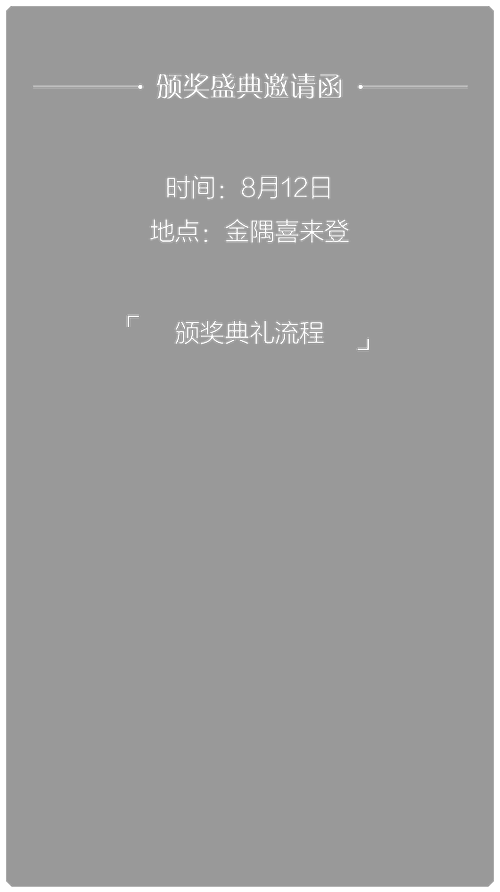
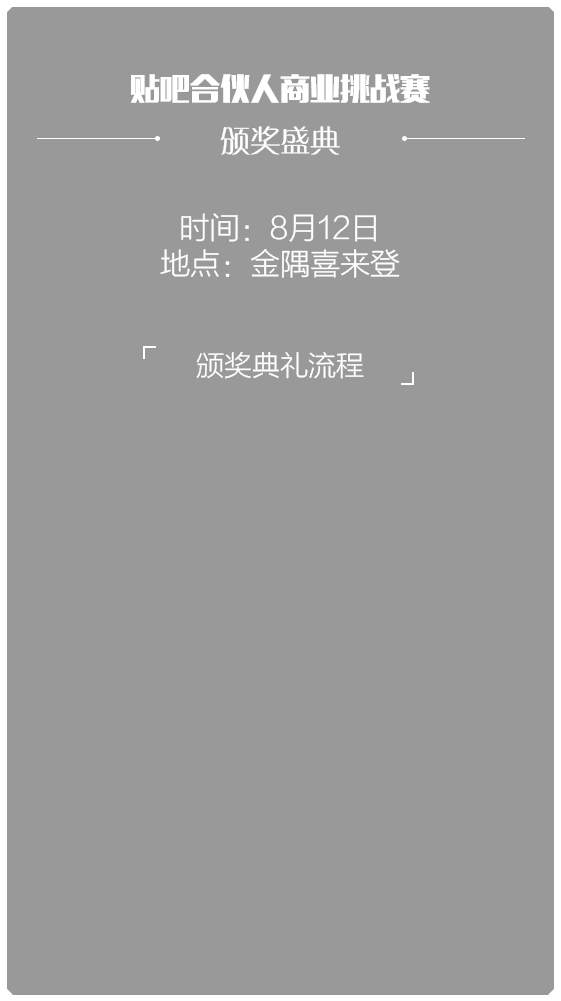
修改邀请函

diff --git a/templates/invitation2.html b/templates/invitation2.html
@@ -11,7 +11,7 @@
 	<link rel="stylesheet" type="text/css" href="/static/css/invitation/icon.css">
 	<link rel="stylesheet" type="text/css" href="/static/css/invitation/process.css?v=1.1">
 	<link rel="stylesheet" type="text/css" href="/static/css/weekly/time.css">
-	<link rel="stylesheet" type="text/css" href="/static/css/invitation/invitation2.css?v=1.5">
+	<link rel="stylesheet" type="text/css" href="/static/css/invitation/invitation2.css?v=1.6">
 </head>
 <body>
 	<!-- <img src="/static/css/invitation/cover/cover.png" style="height:0"> -->
@@ -33,7 +33,7 @@
 						<div class="square" style="top:50%;left:-4px;"></div>
 					</div>
 				</div>
-				<img class="cover-slide" src="/static/css/invitation/cover/slide.png">
+				<img class="cover-slide" src="/static/css/invitation/cover/slide2.png">
 				<div class="cover-text-wrapper">
 					<img src="/static/css/invitation/cover/text.png">
 				</div>
@@ -101,6 +101,9 @@
 			            	<img class="tutor-img" src="/static/css/invitation/content/tutor/2_4.png">
 			            </div>
 			        </div>
+			        <img class="tutor-prev-btn left-arrow" src="/static/css/invitation/content/left_arrow.png">
+			        <img class="tutor-next-btn right-arrow" src="/static/css/invitation/content/right_arrow.png">
+
 			    	<div class="swiper-pagination swiper-pagination-tutor"></div>
 			    </div>
 			    <img class="slide-arrow" src="/static/css/invitation/content/arrow.png">	        	
@@ -125,21 +128,23 @@
 			        </div>
 			        <div class="swiper-pagination swiper-pagination-team"></div>
 			    </div>
+			    <img class="team-prev-btn left-arrow" src="/static/css/invitation/content/left_arrow.png">
+			    <img class="team-next-btn right-arrow" src="/static/css/invitation/content/right_arrow.png">
 			    <img class="slide-arrow" src="/static/css/invitation/content/arrow.png">
 	        </div>
 	
 	        <!-- 不能亲临 -->
 	        <div class="swiper-slide m1" id="p7"> 
-	        	<img src="/static/css/invitation/content/contact/text.png" style="width: 62%;position: absolute;top: 100px;left: 50%;margin-left: -31%;">
-	        	<a href="http://tieba.baidu.com/f?kw=贴吧合伙人&fr=wwwt"><img style="width: 52%;position: absolute;bottom: 100px;left: 50%;margin-left: -26%;" src="/static/css/invitation/content/contact/btn.png"></a>
-	        	<img style="width: 66%;position: absolute; bottom: 50px;left: 50%;margin-left: -33%;" src="/static/css/invitation/content/contact/email.png">
+	        	<img src="/static/css/invitation/content/contact/text.png" style="width: 62%;position: absolute;top: 70px;left: 50%;margin-left: -31%;">
+	        	<a href="http://tieba.baidu.com/f?kw=贴吧合伙人&fr=wwwt"><img style="width: 52%;position: absolute;bottom: 150px;left: 50%;margin-left: -26%;" src="/static/css/invitation/content/contact/btn.png"></a>
+	        	<img style="width: 66%;position: absolute; bottom: 100px;left: 50%;margin-left: -33%;" src="/static/css/invitation/content/contact/email.png">
 	        </div>
 	    </div>
 	</div>
 	<script type="text/javascript" src="/static/js/jquery-1.10.2.min.js"></script>
 	<script type="text/javascript" src="/static/js/swiper.jquery.min.js"></script>
 	<script type="text/javascript" src="/static/js/touch.js"></script>	
-	<script type="text/javascript" src="/static/js/invitation/invitation.js?v=1.4"></script>
+	<script type="text/javascript" src="/static/js/invitation/invitation.js?v=1.5"></script>
 	<script type="text/javascript" src="http://res.wx.qq.com/open/js/jweixin-1.0.0.js"></script>
 	<script type="text/javascript">
 		wx.config({

diff --git a/static/js/anniversary/anniversary.js b/static/js/anniversary/anniversary.js
@@ -373,22 +373,32 @@ var shareText = '';
 $(".j-go-result").bind('click', function(){
 
 	if(moneyLevel == 0 && faceTotalLevel == 1 && authLevel == 1){
-		jQfinal.empty()
-		jQfinal.append('<p>你长得正点，又有权有势</p><p>武媚娘想请你喝茶</p>')
+		jQfinal.empty();
+		jQfinal.append('<p>我长得正点，又有权有势</p><p>武媚娘想请你喝茶</p>');
+		shareText = '你长得正点，又有权有势，武媚娘想请你喝茶'
+	}else if(moneyLevel == 1 && faceTotalLevel == 1 && authLevel == 1){
+		jQfinal.empty();
+		jQfinal.append('<p>你凭借超高的颜值</p><p>玩转金钱与权力游刃有余</p>');
+		shareText = '我凭借超高的颜值，玩转金钱与权力游刃有余';
 	}else if(moneyLevel == 0 && faceTotalLevel == 1 && authLevel == 0){
-		jQfinal.empty()
-		jQfinal.append('<p>恭喜你刷脸成功</p><p>成为新一代中老年过目难忘的偶像</p>')
+		jQfinal.empty();
+		jQfinal.append('<p>恭喜你刷脸成功</p><p>成为新一代中老年过目难忘的偶像</p>');
+		shareText = '我刷脸成功，成为新一代中老年过目难忘的偶像，转发给大家看看吧。';
 	}else if(moneyLevel == 0 && faceTotalLevel == 0 && authLevel == 1){
-		jQfinal.empty()
-		jQfinal.append('<p>你凭借天生的霸气</p><p>打破了这个世界看脸规则</p>')
+		jQfinal.empty();
+		jQfinal.append('<p>你凭借天生的霸气</p><p>打破了这个世界看脸规则</p>');
+		shareText = '我凭借天生的霸气，打破了这个世界看脸规则';
 	}else if(moneyLevel == 0 && faceTotalLevel == 0 && authLevel == 0){
-		jQfinal.empty()
+		jQfinal.empty();
+		shareText = '我属于天煞孤星和丧门星和扫把星三星合体，天赋秉异，所向无敌';
 		jQfinal.append('<p>你属于天煞孤星和丧门星和扫把星三星合体</p><p>天赋秉异，所向无敌</p>')
 	}else if(moneyLevel == 1 && faceTotalLevel == 0 && authLevel == 0){
-		jQfinal.empty()
+		jQfinal.empty();
+		shareText = '我天生财运旺盛，几乎完胜国民老公王思聪';
 		jQfinal.append('<p>你天生财运旺盛</p><p>几乎完胜国民老公王思聪</p>')
 	}else if(moneyLevel == 1 && faceTotalLevel == 0 && authLevel == 1){
-		jQfinal.empty()
+		jQfinal.empty();
+		shareText = '我有钱有权，找一个漂亮的另一半 ，改善一下自己的基因，完全不是问题。';
 		jQfinal.append('<p>你有钱有权，找一个漂亮的另一半</p><p>改善一下自己的基因，完全不是问题。</p>')
 	}
 	wx.onMenuShareAppMessage({		    

diff --git a/templates/anniversary.html b/templates/anniversary.html
@@ -9,7 +9,7 @@
 	<meta name="apple-mobile-web-app-status-bar-style" content="black">
 	<link rel="stylesheet" type="text/css" href="/static/css/swiper.min.css">
 	<link rel="stylesheet" type="text/css" href="/static/css/anniversary/animate.css">
-	<link rel="stylesheet" type="text/css" href="/static/css/anniversary/layout.css?v=1.6">
+	<link rel="stylesheet" type="text/css" href="/static/css/anniversary/layout.css?v=1.9">
 	<link rel="stylesheet" type="text/css" href="/static/css/anniversary/icon.css">
 </head>
 <body>
@@ -234,7 +234,7 @@
 	<script type="text/javascript" src="/static/js/touch.js"></script>	
 	<script type="text/javascript" src="/static/js/anniversary/util.js"></script>
 	<script type="text/javascript" src="/static/js/anniversary/shake.js"></script>
-	<script type="text/javascript" src="/static/js/anniversary/anniversary.js?v=1.8"></script>
+	<script type="text/javascript" src="/static/js/anniversary/anniversary.js?v=1.9"></script>
 	<script type="text/javascript" src="http://res.wx.qq.com/open/js/jweixin-1.0.0.js"></script>
 	<script type="text/javascript">
 		wx.config({

diff --git a/static/js/invitation/invitation.js b/static/js/invitation/invitation.js
@@ -40,17 +40,22 @@ var teamSwiper = new Swiper('#team-content',{
 	direction: 'horizontal',  //vertical,horizontal
 	speed: 700,
 	// onlyExternal: true,
+	autoplay : 1000,
     paginationClickable: '.swiper-pagination-team',
 	pagination: '.swiper-pagination-team',
-
+	prevButton:'.team-prev-btn',
+	nextButton:'.team-next-btn',
 });	
 
 var tutorSwiper = new Swiper('#tutor-content',{
 	direction: 'horizontal',  //vertical,horizontal
 	speed: 700,
+	autoplay : 1000,
 	// onlyExternal: true,
     paginationClickable: '.swiper-pagination-tutor',
 	pagination: '.swiper-pagination-tutor',
+	prevButton:'.tutor-prev-btn',
+	nextButton:'.tutor-next-btn',
 
 });	
 
@@ -62,7 +67,12 @@ touch.on('.m1', 'swipeup', function(ev){
 	var current = $('.swiper-slide-active.m1').attr('id');
 	if(current == 'p2'){
 		process();
+	}else if(current == 'p6'){
+		tutorSwiper.startAutoplay();
+	}else if(current == 'p3'){
+		teamSwiper.startAutoplay();
 	}
+
 	swiper.slideNext();
 });
 

diff --git a/static/css/invitation/invitation2.css b/static/css/invitation/invitation2.css
@@ -212,6 +212,22 @@ html,body {
   top: 63%;
  
 }
+.left-arrow{
+  position: absolute;
+  left: 10px;
+  top: 40%;
+  height: 27px;
+}
+.right-arrow{
+  position: absolute;
+  right: 10px;
+  top: 40%;
+  height: 27px;
+}
+
+#p4 .left-arrow, #p4 .right-arrow{
+  top: 55%;
+}
 
 @-webkit-keyframes slidetounlock {
   0% {
